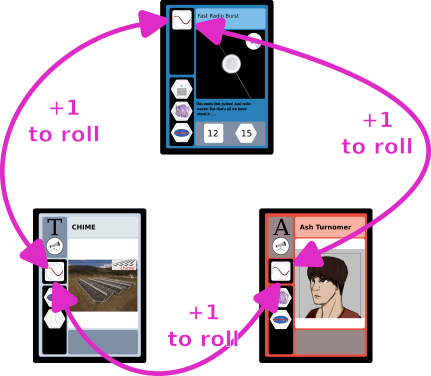
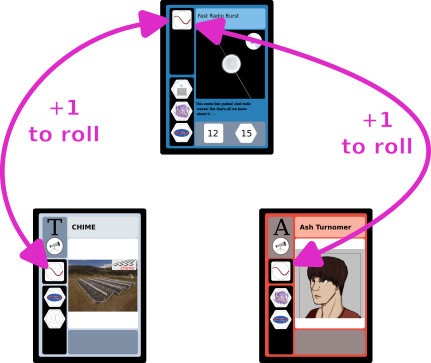
More updates

diff --git a/how-to-play.md b/how-to-play.md
@@ -5,10 +5,10 @@ We originally wanted to make some trading cards to highlight the contributions o
 
 Astronomy isn’t always just taking pictures of black holes and distant galaxies. It’s a field composed of many people using different methods to study the past, present, and future of our universe. Sometimes we need to craft simulations to test our theories. Sometimes we need to write some code to calculate important statistics. Sometimes we’re caught up in the political machine that is academia. It’s not always pretty and an important part of success is luck. Things don’t always work the way you expect and so we hope we convey the research process in an accurate manner in our game.
 
-[Here's a link to our website!](https://astromania-game.github.io/)
+Here's a link to our website: [https://astromania-game.github.io/](https://astromania-game.github.io/)
 
 ## The Scenario
-Each player has just begun their astronomy career by being accepted to a prestigious university for graduate school. They must work hard to complete real astronomy research and publish scientific papers to graduate and receive their Ph.D.
+In our game, each player has just begun their astronomy career by being accepted to a prestigious university for graduate school. They must work hard to complete real astronomy research and publish scientific papers to graduate and receive their Ph.D.
 
 ## In the Box
 ### Decks/Cards
@@ -17,81 +17,119 @@ In this game, there are three types of cards, each separated into their own deck
 
 
 The exact count of each is as follows:
+- Sky deck (30 cards)
 - Draw deck (42 cards):
   - 18  Astronomer Cards
   - 15 Tool Cards
-  - 9 Interact Cards
+  - 9 Interaction Cards
 - Prompt deck (18 cards)
-- Sky deck (30 cards)
-
-#### Card Layouts
-![image](./Images/card_annotate.png)
-
-- Classes - Icons in circles. General classification of a card.
-- Wavelengths - Icons in squares. Represents the wavelengths which can be studied
-- Techniques - Icons in hexagons. Represents scientific techniques used to analyze objects
-
-        Astronomer Cards (Class, 1-3 Wavelengths, 1-3 Techniques), Tool Cards (Class, 0-1 Wavelengths, 2-3 Techniques), Prompt Cards (Class), Object Cards (Class, 1-3 Wavelengths, 1-3 Techniques)
 
 ### Dice
 We include two fair 6-sided dice to be used for our game.
 
 ### SP Trackers
-We include trackers to keep track of a player’s earned bonus science points (SP). There are markers to represent 1, 5, and 10 SP. There are 24 of each value included.
+We include trackers to keep track of a player’s earned bonus science points (SP). There are markers to represent 1, 3, and 5 SP. There are 18 of each value included.
+
+## Card Layouts
+![image](./Images/card_annotate.png)
+
+Generally seaking, the type of icon can be determined by what shape it is within.
+- Classes - Icons in circles. General classification of a card.
+- Wavelengths - Icons in squares. Represents the wavelengths which can be studied
+- Techniques - Icons in hexagons. Represents scientific techniques used to analyze objects
+ 
+### Objects
+Object Cards have one Class, 1-3 Wavelengths, and 1-3 Techniques.
+
+![image](./Images/object_annotate.png)
+### Astronomers
+Astronomer Cards have one Class, 1-3 Wavelengths, and 1-3 Techniques.
+
+![image](./Images/astronomer_annotate.png)
+### Tools
+Tool Cards have one Class, 0-1 Wavelengths, and 2-3 Techniques.
+
+![image](./Images/tool_annotate.png)
+### Interactions
+Interaction cards will have none of the regular icons on them. Instead, there are instructions about what the card can be used to do.
+
+![image](./Images/interaction_annotate.png)
+### Prompts
+Prompt Cards only have one Class associated with them. These classes are the same as the Object classes.
+
+![image](./Images/prompt_annotate.png)
+### Reference
+Each player has one refernce card that they may refer back to at any time.
 
 ## Setup
-*Optional*: Remove the interact cards from the draw deck for solo play.
+*Optional*: Remove the interaction cards from the draw deck for solo play.
 1. Split the cards into their appropriate decks by their back color and shuffle all 3 decks.
 2. Distribute a random prompt card to each player.
 3. Each player draws 5 cards from the Draw deck as their starting hand.
 4. Place 9 object cards from the Sky deck on the Starboard.
-5. Roll the dice to determine who goes first. Turn order proceeds counter-clockwise from the first player.
+5. Determine who goes first. Turn order proceeds clockwise from the first player.
+   - This can be done in any way you choose. You may decide that whoever was the last person to see a shooting star or whoever has the next birthday goes first. We suggest each player take a turn rolling the dice and the player with the highst sum on the dice goes first.
 
 ## Game Layout
 An example game can be seen below. All players must be able to see every card on the Starboard, every player's current prompt, and any cards played on all players' fields.
 ![image](./Images/setup_example.png)
 
+The maximum size of a player's field depends on how many many papers that player has published. A player begins with a field limit of 1 Astronomer + 1 Tool. For each paper that the player published, their field limit increases by 1 Astronomer and 1 Tool. For instance, if a player has published 2 papers thus far, their field limit is 3 Astronomers + 3 Tools.
+
 ## Gameplay
 ### Turn Actions
-On their turn, a player can take up to 3 of any of the following actions:
+On their turn, a player can take up to 3 turn actions plus one free action.
+
+Once per turn, a player may do **one** of the following as a free action (does not count towards your 3 turn actions):
+- Draw only one card from the draw deck
+- Discard only one card in their hand or field and gain +2 SP
+
+At the cost of one turn action, a player may do any one of the following:
 1. Draw a card from the draw deck
 2. Play an astronomer or tool card on your field
 3. Use an Astronomer card and a Tool card in your field to attempt to study an object on the Starboard (see next section)
-4. Use an Interact card from your hand (discard it after use)
-5. Discard a card in your hand or field and gain 1 SP
+4. Discard a card in their hand or field and gain +2 SP
+
+A player may use any number of Interaction Cards without any action cost unless specified by the card. Once an Interaction Card is used, it is placed in the Draw Deck's discard pile.
+
+A player may take their turn in any order they so wish. Players are not required to use their free action seperate from their turn actions. A player may choose to do 2 turn actions, use their free action, and then do their last turn action. Even after that, a player may use an Interaction Card (so long as it does not require any actions). A player's turn is not finished until they declare that they are done.
 
 ### Studying an Object
 Choose one object on the Starboard to study. Select one Astronomer and one Tool (both in your field) to study the object with. Roll the dice and sum the resulting values to determine the science power for that analysis. Remember to apply any relevant bonuses!
 
-- If your dice roll (plus bonuses) is *greater than or equal to* the value required to observe the object, you gain the intrinsic SP of the object in the form of the object card itself and any bonus SP granted by matching techniques (use the SP markers to count extra SP). Add the object card to the player's pile of successfully studied objects, each is worth the intrinsic SP (number in the hexagon). Then draw a new object card and place it on the Starboard.
+- If your dice roll (plus bonuses) is *greater than or equal to* the value required to observe the object, you gain the intrinsic SP of the object in the form of the object card itself and any bonus SP granted by matching techniques (use the SP markers to count extra SP). Add the object card to the player's SP cache. Each object is worth the intrinsic SP (number in the hexagon). Then draw a new object card and place it on the Starboard.
 
 - If your final roll is less than the required value to observe the object, the object remains on the board and you do not gain any SP.
 
-Once an astronomer and/or tool is used to study an object successfully, they may not be used *together* to study a different object in the same turn. 
+Once an astronomer is used to *attempt* to study an object, they may not be used to study a different object in the same turn. 
 
 #### Matching Classes Bonus
-If you pair the correct astronomer and tool classes, you gain +1 bonus to your dice roll for your attempt at studying.
+For Astronomer/Tool clases: If you pair the correct astronomer and tool classes, you gain +1 bonus to your dice roll for your attempt at studying.
 
-You can more easily complete the prompt by studying objects of the same class as the prompt. For each object that is being submitted that is of the same class as the prompt, the required SP to publish is decreased by 1.
+For object classes: You can more easily complete the prompt by studying objects of the same class as the prompt. For each object that is being submitted that is of the same class as the prompt, the SP worth of that object towards publishing is increased by +1.
 
 #### Matching Wavelengths Bonus
-When studying an object, a player can receive a +1 bonus to your dice roll for each match between two cards(these values can stack). The wavelength icons are in squares to indicate that their bonus is applied to rolls. For instance, let's say that a player wants to study the Fast Radio Burst object with Ash Turnomer astronomer and the CHIME tool. All three have the long-wavelength in their wavelengths, so there is a +3 to the roll from matching wavelengths. (Additionally, there is another +1 to the roll from matching an observer to a telescope.)
+When studying an object, a player can receive a +1 bonus to your dice roll for each match with the object card (these values can stack). The wavelength icons are in squares to indicate that their bonus is applied to rolls. For instance, let's say that a player wants to study the Fast Radio Burst object with Ash Turnomer astronomer and the CHIME tool. Ash and CHIME each have the long-wavelength in their wavelengths which matches Fast Radio Burst, so there is a +2 to the roll from matching wavelengths. (Additionally, there is another +1 to the roll from matching an observer to a telescope, so they player would have a total of +3 to their roll on their study attempt.)
 
 ![image](./Images/triple_match.png)
 
 #### Matching Techniques Bonus
-When studying an object, a player can pair the match the techniques, you gain +1 bonus SP on a successful study. The technique icons are in hexagons to indicate that their bonus is in the resulting SP. Like with matching wavelengths, players may stack the bonuses from multiple matches. 
+When studying an object, a player can pair the match the techniques, you gain +1 bonus SP on a successful study. The technique icons are in hexagons to indicate that their bonus is in the resulting SP. Players may stack the bonuses from multiple matches to the object.
 
 ### Publishing a Paper
-When a player has the required SP to fulfill their prompt (value listed on the prompt card), they can publish a paper! A player must publish on their turn, but publishing does not require an action.
+When a player has the required SP to fulfill their prompt (20 SP listed on the Prompt Card), they can publish a paper! A player must publish on their turn, but publishing does not require using an action.
 
-To publish: Object cards in a player's pile of successfully studied objects are worth the amount of SP listed in the hexagon. A player must trade in enough object cards and SP tokens to fulfill the prompt. If the value of the SP being traded in is greater than the value required to publish, the player receives SP tokens representing the excess. 
+To publish: Object cards in a player's SP cache are worth the amount of SP listed in the hexagon. A player must trade in enough object cards and SP tokens to fulfill the prompt. 
 
-The used objects then go into the sky deck discard pile. The player then selects another random prompt from the prompt deck, unless it is their third publication.
+If an object being traded in has the same class icon as the prompt, then the object is worth an additional 1 SP towards that prompt.
+
+If the value of the SP being traded in is greater than the value required to publish, the player receives SP tokens representing the excess. 
+
+The used objects then go into the Sky Deck discard pile. The player then selects another random prompt from the prompt deck, unless it is their third publication...
 
 ### Additional Rules
+- **Field limit:** The number of Astronomers and Tools that a player may have on their field depends on how many papers that player has published (# of paper published + 1). A player can never have more than 3 Astronomers and 3 Tools on their field at any given time.
 - **Hand limit:** A player cannot have more than 7 (seven) cards in their hand at the end of their turn. If they have greater than this limit at the end of their turn, they must discard cards of their choice such that they only have 7 (seven) cards. The player does not gain SP for these discards.
-- **Field limit:** A player cannot have more than 3 Astronomers and 3 Tools on their field at any given time.
 - **Re-shuffling:** When either the draw or sky deck is empty, re-shuffle the cards in the corresponding discard and place it in the deck location.
 
 ## How to Win
